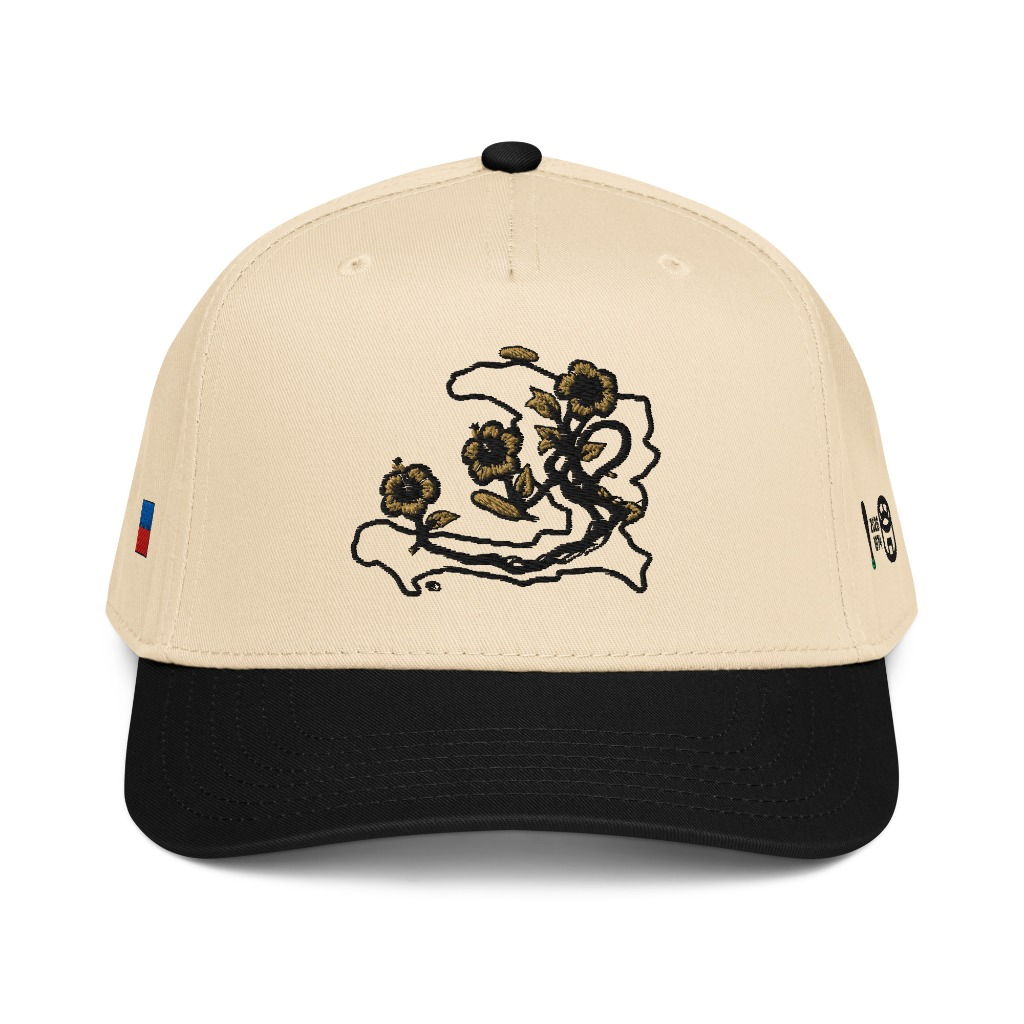
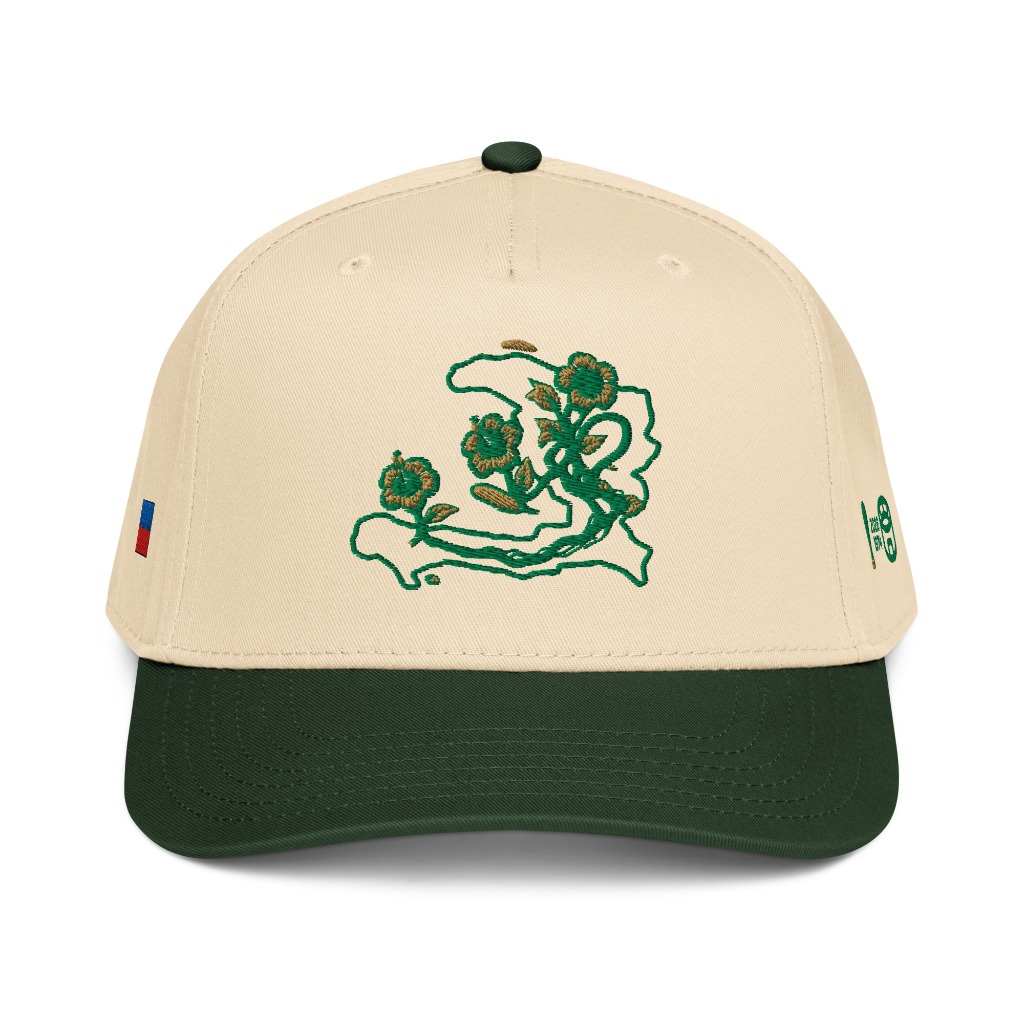
Add missing Forest Classic cap product (SKU: 7216013_24381)

diff --git a/src/App.jsx b/src/App.jsx
@@ -121,6 +121,39 @@ const STATIC_PRODUCTS = [
     }
   },
   {
+    id: "haiti-5panel-classic",
+    variantId: "gid://shopify/ProductVariant/43081754935373", // SKU: 7216013_24381
+    category: "Structured",
+    views: {
+      front: "/haiti-5panel-front.jpg",
+      left: "/haiti-5panel-side.jpg",
+      right: "/haiti-5panel-side.jpg"
+    },
+    name: "The Heritage Cap",
+    accentName: "Forest Classic",
+    description: "Two-tone cream and forest green classic structured cap featuring high-density embroidery detailing the map of Haiti and local flora. Complete with commemorative side flank flag patch and icons.",
+    price: 30.00,
+    colorway: "Cream / Forest Classic",
+    hex: "#18453B",
+    accentBg: "bg-forest",
+    accentText: "text-forest",
+    hoverBorder: "hover:border-forest",
+    focusRing: "focus:ring-forest",
+    badge: "Classic Series",
+    features: [
+      "High-density floral map outline embroidery",
+      "Haitian flag side patch and 1974 milestone graphics",
+      "Structured mid-profile crown profile",
+      "Forest green visor, button, and eyelets",
+      "Premium adjustable snapback closure"
+    ],
+    details: {
+      map: "Finely stitched outline of Haiti's historic borders in forest green.",
+      flora: "Hibiscus blooms and leaves woven directly inside the map contour.",
+      side: "Haitian bicolor flag and commemorative year markers celebrating national history."
+    }
+  },
+  {
     id: "haiti-dad-hat-red",
     variantId: "gid://shopify/ProductVariant/43088054550605", // Dad hat cranberry
     category: "Unstructured",
@@ -318,6 +351,7 @@ function App() {
     "haiti-embroidered-hat-red": "front",
     "haiti-embroidered-hat-blue": "front",
     "haiti-embroidered-hat-green": "front",
+    "haiti-5panel-classic": "front",
     "haiti-dad-hat-red": "front",
     "haiti-dad-hat-white": "front",
     "haiti-dad-hat-black": "front",